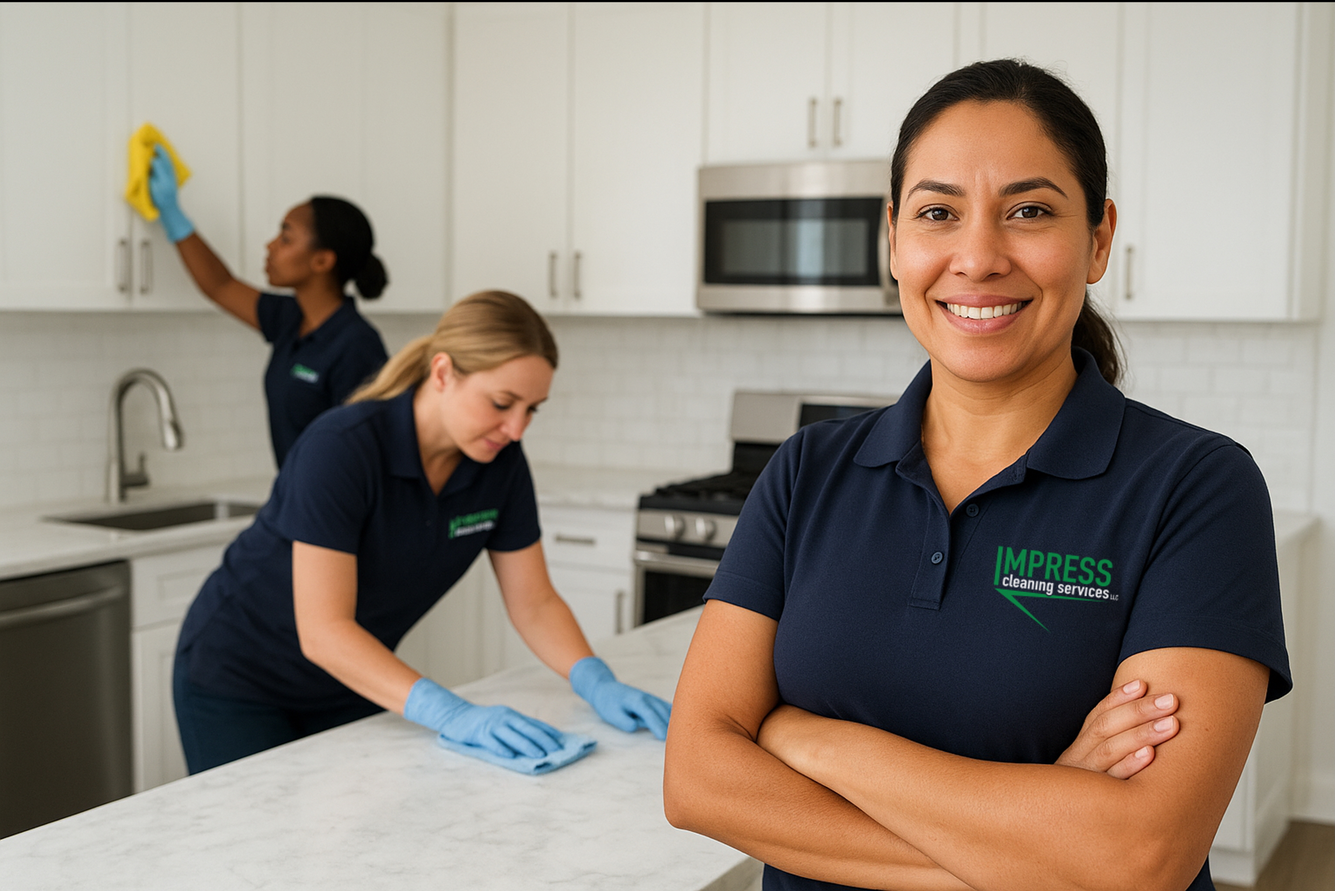
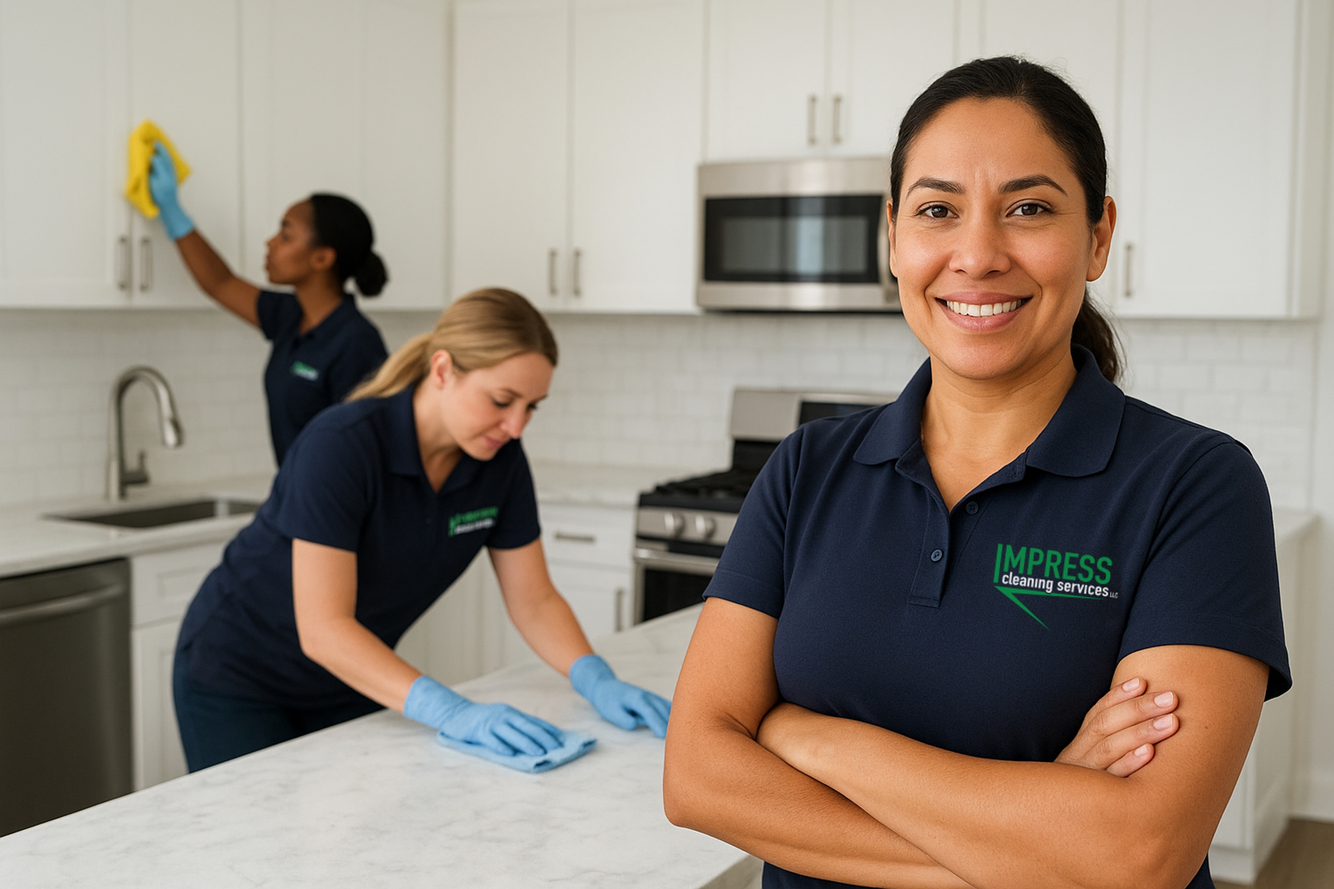
General Update

diff --git a/src/components/Header.jsx b/src/components/Header.jsx
@@ -32,14 +32,17 @@ const active = useMemo(
   return (
     <>
       {/* Top Utility Bar */}
-      <div className="font-headline h-6 flex items-center justify-end gap-5 px-6 bg-[#202E56] text-white text-[13px] font-semibold tracking-wide">
+      <div className="font-headline h-6 flex items-center justify-end gap-5 px-6 bg-[#1C294E]">
       </div>
 
       {/* Main Header */}
-      <header className="sticky top-0 z-50 bg-[#FAFAF8]">
-        <div className="relative w-full">
+<header className="sticky top-0 z-50 bg-[#FAFAF8] relative">
+<div className="relative w-full">
           <div className="absolute inset-0 bg-[#FAFAF8]" aria-hidden />
-          <div className="absolute inset-x-0 bottom-0 translate-y-full h-[50px] bg-[#FAFAF8]" aria-hidden />
+          <div
+  className="absolute inset-x-0 bottom-[-1px] translate-y-full h-[50px] bg-[#FAFAF8]"
+  aria-hidden
+/>
 
           <div className="relative flex items-center justify-center md:justify-between px-8 py-3 md:py-[0.5px] translate-y-[30px] md:translate-y-[40px]">
             
@@ -47,7 +50,7 @@ const active = useMemo(
               className="flex flex-col select-none absolute left-4 md:static scale-90 md:scale-100"
               aria-label="Impress Cleaning Home"
             >
-              <div className="flex items-end text-[#202E56] leading-none">
+              <div className="flex items-end text-[#1C294E] leading-none">
                 <span
                   className="text-[98px] relative top-[10px] font-serif font-bold"
                   style={{
@@ -59,11 +62,11 @@ const active = useMemo(
                   }}>
                   I
                 </span>
-                <span className="text-[78px] font-serif font-bold tracking-[0.07em]" style={{ textShadow: '0 2px 3px rgba(0, 0, 0, 0.45)' }}>
+                <span className="text-[78px] font-serif font-bold tracking-[0.07em] text-[#1C294E]" style={{ textShadow: '0 2px 3px rgba(0, 0, 0, 0.45)' }}>
                   MPRESS
                 </span>
               </div>
-              <div className="text-[20px] font-serif font-extrabold uppercase tracking-[0.20em] text-[#42924F] mt-[-3px] ml-[39px]" style={{ textShadow: '0 2px 3px rgba(0, 0, 0, 0.25)' }}>
+              <div className="text-[20px] font-serif font-extrabold uppercase tracking-[0.20em] text-[#079447] mt-[-3px] ml-[39px]" style={{ textShadow: '0 2px 3px rgba(0, 0, 0, 0.25)' }}>
                 Cleaning Services LLC
               </div>
             </a>
@@ -135,7 +138,7 @@ const active = useMemo(
           )}
 
           {/* Slide-in drawer menu */}
-          <div className={`fixed top-0 left-0 h-full w-[280px] bg-[#2D3748] text-white z-50 transform transition-transform duration-300 ease-in-out md:hidden ${open ? 'translate-x-0' : '-translate-x-full'}`}>
+          <div className={`fixed top-0 left-0 h-full w-[280px] bg-[#1C294E] text-white z-50 transform transition-transform duration-300 ease-in-out md:hidden ${open ? 'translate-x-0' : '-translate-x-full'}`}>
             <div className="p-6">
               <button 
                 onClick={() => setOpen(false)}
@@ -156,15 +159,9 @@ const active = useMemo(
                 <a href="#why" className="block hover:text-[#42924F] transition" onClick={() => setOpen(false)}>
                   Why Hire Us
                 </a>
-                <a href="#faq" className="block hover:text-[#42924F] transition" onClick={() => setOpen(false)}>
-                  FAQ
-                </a>
                 <a href="#about" className="block hover:text-[#42924F] transition" onClick={() => setOpen(false)}>
                   About Us
                 </a>
-                <a href="#about" className="block hover:text-[#42924F] transition" onClick={() => setOpen(false)}>
-  About Us
-</a>
 <a href="#gift" className="block hover:text-[#42924F] transition" onClick={() => setOpen(false)}>
   Gift Certificates
 </a>
@@ -174,14 +171,17 @@ const active = useMemo(
 <a href="#aplicar" className="block hover:text-[#42924F] transition" onClick={() => setOpen(false)}>
   Aplicar
 </a>
-<a href="#quote" className="block hover:text-[#42924F] transition" onClick={() => setOpen(false)}>
-  Request a Quote
-</a>
+<a href="#faq" className="block hover:text-[#42924F] transition" onClick={() => setOpen(false)}>
+                  FAQ
+                </a>
+
               </nav>
             </div>
           </div>
         </div>
       </header>
+    <div
+  />
     </>
   ); 
 }

diff --git a/src/app/ImpressCleaningSite.jsx b/src/app/ImpressCleaningSite.jsx
@@ -82,7 +82,7 @@ export default function ImpressCleaningSite() {
   }
 
   return (
-    <main id="home" className="min-h-screen text-slate-800">
+    <main id="top" className="min-h-screen">
       <Hero />
       <WhyChoose />
       <HowItWorks />
@@ -94,14 +94,13 @@ export default function ImpressCleaningSite() {
 
 function Hero() {
   return (
-    <section id="home" className="relative w-screen left-1/2 -ml-[50vw] mt-20">
+<section id="home" className="relative w-screen left-1/2 -ml-[50vw] mt-20">
 <div className="relative h-[50vh] md:h-[78vh] min-h-[400px] md:min-h-[560px] w-full overflow-hidden">        <img
           src="/hero-cleaners1.jpg"
           alt="Impress Cleaning pro team"
           className="absolute inset-0 h-full w-full object-cover object-[50%_27.5%]"
         />
-<div className="absolute inset-0 bg-gradient-to-r from-black/20 via-black/10 to-transparent pointer-events-none z-10" />
-        <div className="absolute top-0 left-0 right-0 h-[10px] bg-gradient-to-b from-[#FAFAF8]/90 via-[#FAFAF8]/40 to-transparent pointer-events-none z-30" />
+        <div className="absolute inset-0 bg-gradient-to-r from-transparent via-black/10 to-transparent pointer-events-none z-10" />
         <div className="relative h-full">
           <div className="mx-auto max-w-7xl h-full px-4 md:px-6">
           <div className="md:absolute md:left-[clamp(1.5rem,6vw,5rem)] md:top-[clamp(5rem,22vh,12rem)] md:max-w-[700px] z-20">

diff --git a/tailwind.config.js b/tailwind.config.js
@@ -24,8 +24,6 @@ module.exports = {
       },
     },
 
-    
-
 extend: {
       fontFamily: {
         sans: ['var(--font-inter)', 'Inter', 'ui-sans-serif', 'system-ui', 'sans-serif'],
